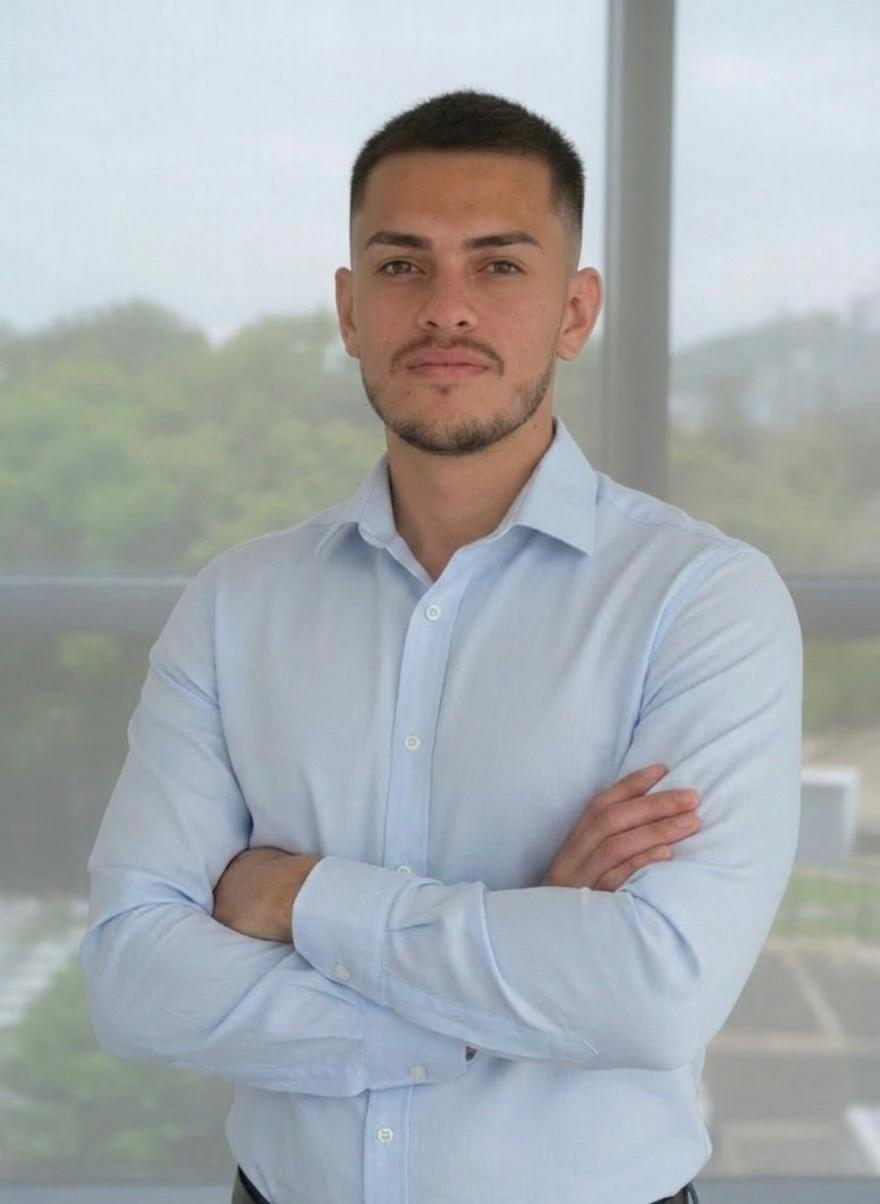
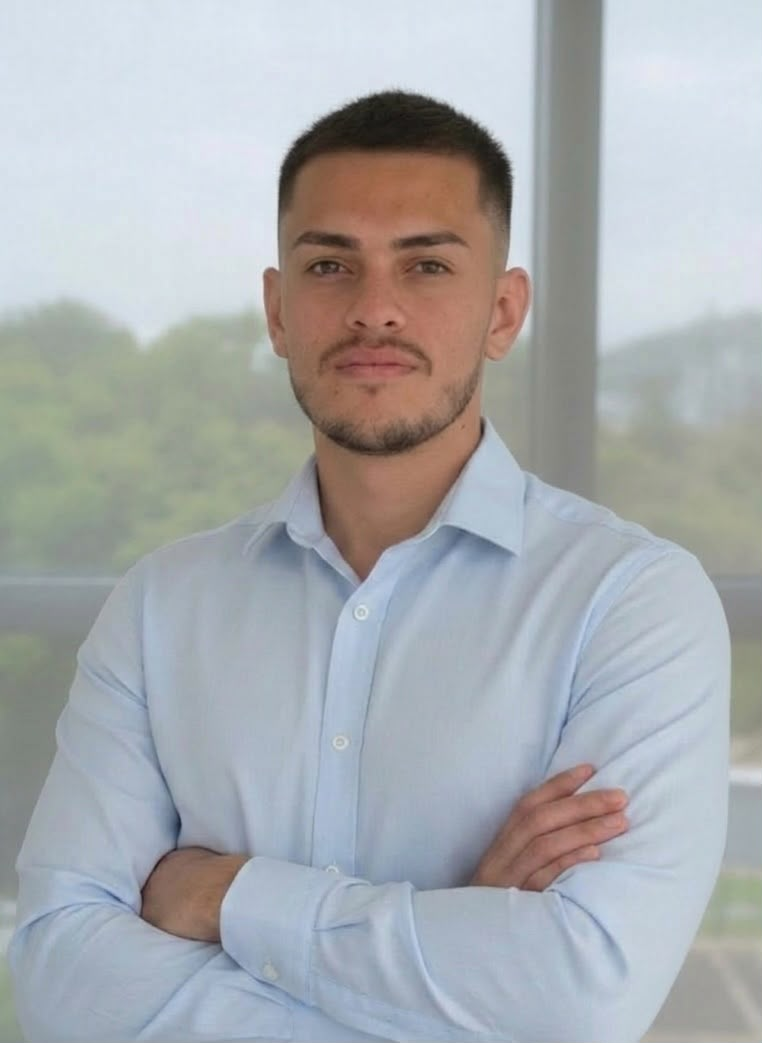
About: move Christofer last; fix Sergio photo framing (object-position); restyle team cards (gradient, photo ring, hover accent) — mobile friendly

diff --git a/src/app/features/about/about.component.scss b/src/app/features/about/about.component.scss
@@ -26,16 +26,23 @@
 .team-ey { font-family: var(--font-mono); font-size: 12px; letter-spacing: 0.12em; text-transform: uppercase; color: var(--gold-bright); }
 .team-head h3 { margin-top: 10px; font-size: clamp(26px, 4vw, 44px); font-weight: 800; letter-spacing: -0.03em; }
 .team-sub { margin-top: 10px; color: var(--text-2); }
-.team-grid { display: grid; grid-template-columns: repeat(4, 1fr); gap: var(--space-3); max-width: 1080px; margin: 0 auto; }
-.member { display: flex; flex-direction: column; align-items: center; text-align: center; gap: 12px; padding: 22px 16px; background: var(--paper); border: 1px solid var(--line-dark); border-radius: var(--radius-md);
+.team-grid { display: grid; grid-template-columns: repeat(4, 1fr); gap: clamp(14px, 1.6vw, 22px); max-width: 1080px; margin: 0 auto; }
+.member { position: relative; display: flex; flex-direction: column; align-items: center; text-align: center; gap: 14px; padding: 28px 18px 24px; overflow: hidden;
+  background: linear-gradient(180deg, var(--paper), var(--paper-2)); border: 1px solid var(--line-dark); border-radius: var(--radius-lg);
   transition: border-color var(--dur) var(--ease), transform var(--dur) var(--ease), box-shadow var(--dur) var(--ease); }
-.member:hover { border-color: var(--gold-bright); transform: translateY(-3px); box-shadow: 0 18px 44px -28px rgba(231,171,46,0.4); }
-.m-photo { position: relative; flex-shrink: 0; width: 84px; height: 84px; border-radius: 50%; overflow: hidden; background: var(--paper-2); }
-.m-photo img { width: 100%; height: 100%; object-fit: cover; filter: grayscale(1) contrast(1.02); transition: filter var(--dur) var(--ease); }
+.member::before { content: ''; position: absolute; inset: 0 0 auto 0; height: 3px; background: linear-gradient(90deg, transparent, var(--gold-bright), transparent);
+  transform: scaleX(0); transition: transform var(--dur) var(--ease); }
+.member:hover { border-color: var(--gold-bright); transform: translateY(-5px); box-shadow: 0 24px 50px -30px rgba(231,171,46,0.45); }
+.member:hover::before { transform: scaleX(1); }
+.m-photo { position: relative; flex-shrink: 0; width: 96px; height: 96px; border-radius: 50%; overflow: hidden; background: var(--paper-2);
+  border: 2px solid var(--line-dark); transition: border-color var(--dur) var(--ease), box-shadow var(--dur) var(--ease); }
+.member:hover .m-photo { border-color: var(--gold-bright); box-shadow: 0 0 0 5px rgba(231,171,46,0.12); }
+.m-photo img { width: 100%; height: 100%; object-fit: cover; object-position: 50% 22%; filter: grayscale(1) contrast(1.03); transition: filter var(--dur) var(--ease); }
 .member:hover .m-photo img { filter: grayscale(0); }
 .m-info { min-width: 0; display: flex; flex-direction: column; align-items: center; }
-.m-info h4 { font-size: 16px; font-weight: 700; color: var(--text); }
-.m-role { display: inline-flex; align-items: flex-start; justify-content: center; gap: 7px; margin-top: 5px; font-family: var(--font-mono); font-size: 12px; line-height: 1.4; color: var(--text-2); }
+.m-info h4 { font-size: 17px; font-weight: 700; letter-spacing: -0.01em; color: var(--text); }
+.m-role { display: inline-flex; align-items: flex-start; justify-content: center; gap: 6px; margin-top: 6px; max-width: 24ch; font-family: var(--font-mono); font-size: 11.5px; line-height: 1.45; color: var(--text-2); }
+.m-role i { flex-shrink: 0; margin-top: 1px; }
 .m-role i { color: var(--gold-bright); font-style: normal; }
 
 /* Values */

diff --git a/src/app/features/about/about.component.html b/src/app/features/about/about.component.html
@@ -26,8 +26,8 @@
         <div class="code-bar"><i class="d r"></i><i class="d y"></i><i class="d g"></i><span>vectis.ts</span></div>
         <pre class="code-body"><span class="c-com">// el equipo detrás de Vectis</span>
 <span class="c-kw">const</span> team = [
-  <span class="c-str">'Sergio'</span>, <span class="c-str">'Christofer'</span>,
-  <span class="c-str">'Marlon'</span>, <span class="c-str">'Guillermo'</span>
+  <span class="c-str">'Sergio'</span>, <span class="c-str">'Marlon'</span>,
+  <span class="c-str">'Guillermo'</span>, <span class="c-str">'Christofer'</span>
 ];
 
 <span class="c-kw">await</span> <span class="c-fn">build</span>(team)
@@ -45,7 +45,7 @@
       </header>
       <div class="team-grid">
         <article class="member" *ngFor="let m of team; let i = index" appReveal [revealDelay]="i * 90">
-          <div class="m-photo"><img [ngSrc]="m.photo" [alt]="m.name" fill /></div>
+          <div class="m-photo"><img [ngSrc]="m.photo" [alt]="m.name" [style.object-position]="m.pos || null" fill /></div>
           <div class="m-info">
             <h4>{{ m.name }}</h4>
             <span class="m-role"><i aria-hidden="true">&lt;/&gt;</i>{{ 'ABOUT.ROLE_' + m.roleKey | translate }}</span>

diff --git a/src/app/features/about/about.component.ts b/src/app/features/about/about.component.ts
@@ -5,7 +5,7 @@ import { CountUpDirective } from '../../core/directives/count-up.directive';
 import { RevealDirective } from '../../core/directives/reveal.directive';
 
 interface Stat { value?: number; suffix?: string; prefix?: string; key: string; textKey?: string; }
-interface Member { name: string; roleKey: string; photo: string; linkedin: string; github: string; }
+interface Member { name: string; roleKey: string; photo: string; linkedin: string; github: string; pos?: string; }
 
 @Component({
   selector: 'app-about',
@@ -22,9 +22,9 @@ export class AboutComponent {
     { key: 'SENIOR',     textKey: 'SENIOR_VAL' },
   ];
   readonly team: Member[] = [
-    { name: 'Sergio Arce',       roleKey: 'CEO',   photo: 'assets/images/sergio-arce.jpg', linkedin: 'https://www.linkedin.com/', github: 'https://github.com/' },
-    { name: 'Christofer Merlo',  roleKey: 'SALES', photo: 'assets/images/christofer-merlo.jpeg', linkedin: 'https://www.linkedin.com/', github: 'https://github.com/' },
+    { name: 'Sergio Arce',       roleKey: 'CEO',   photo: 'assets/images/sergio-arce.jpg', pos: '50% 12%', linkedin: 'https://www.linkedin.com/', github: 'https://github.com/' },
     { name: 'Marlon Álvarez',    roleKey: 'ENG',   photo: 'assets/images/marlon-alvarez.jpg', linkedin: 'https://www.linkedin.com/', github: 'https://github.com/' },
     { name: 'Guillermo Ramírez', roleKey: 'ENG',   photo: 'assets/images/guillermo-ramirez.jpg', linkedin: 'https://www.linkedin.com/', github: 'https://github.com/' },
+    { name: 'Christofer Merlo',  roleKey: 'SALES', photo: 'assets/images/christofer-merlo.jpeg', linkedin: 'https://www.linkedin.com/', github: 'https://github.com/' },
   ];
 }